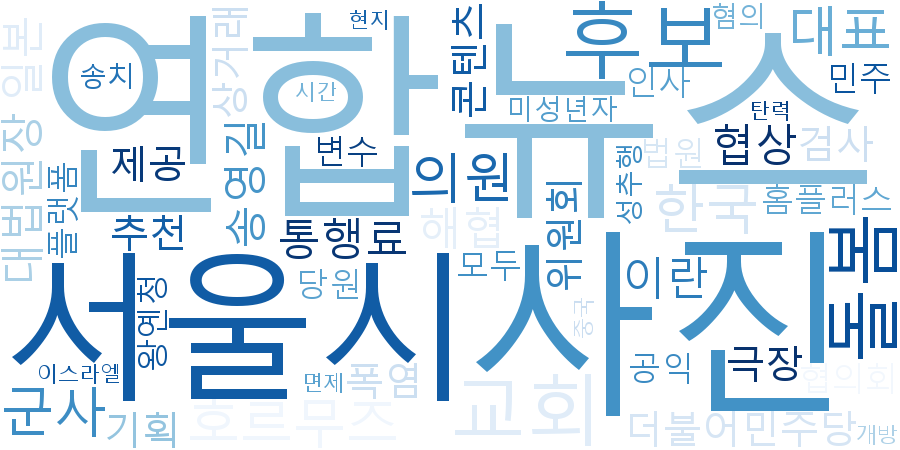
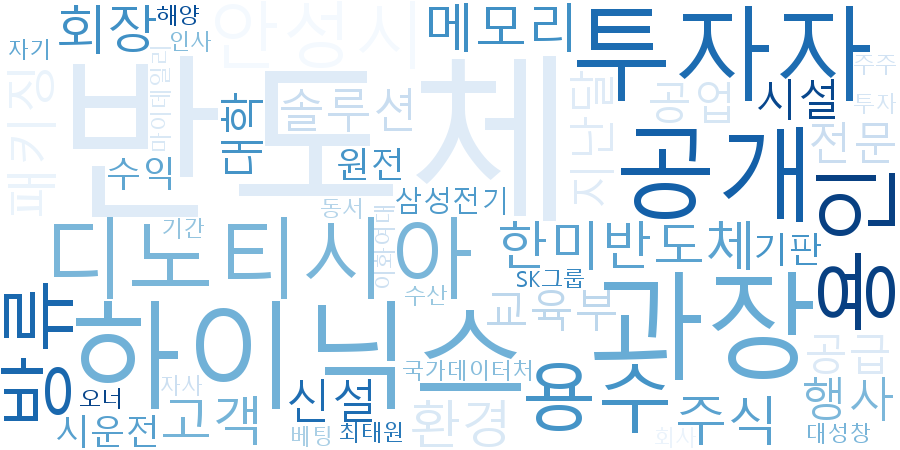
뉴스 관계도 시각화 기능 추가
기능 구현
- 뉴스 관계도(Network Graph) 시각화 기능 추가
- 검색 키워드를 중심으로 관계도 생성
- 핵심 키워드 간 연결 관계 시각화
- 불용어 처리 및 키워드 품질 개선
- 메인 화면에 관계도 출력

diff --git a/templates/index.html b/templates/index.html
@@ -100,6 +100,22 @@
         </section>
         {% endif %}
 
+        {% if keyword_graph %}
+        <section class="visualization-box">
+            <h2>🕸 뉴스 관계도</h2>
+
+            <p>
+                같은 기사에서 함께 등장한 핵심 키워드의 연결 관계입니다.
+            </p>
+
+            <img
+                src="{{ url_for('static', filename=keyword_graph) }}"
+                alt="뉴스 관계도"
+                class="keyword-graph-image"
+            >
+        </section>
+        {% endif %}
+
         <h2>
             {% if query %}
                 '{{ query }}' 검색 결과

diff --git a/static/style.css b/static/style.css
@@ -668,3 +668,10 @@ footer a:hover {
     width: 100%;
     border-radius: 12px;
 }
+
+.keyword-graph-image {
+    display: block;
+    width: 100%;
+    height: auto;
+    border-radius: 16px;
+}

diff --git a/app.py b/app.py
@@ -19,6 +19,13 @@ import os
 import re
 import sqlite3
 import requests
+import networkx as nx
+import matplotlib
+
+matplotlib.use("Agg")
+
+import matplotlib.pyplot as plt
+from matplotlib import font_manager
 
 load_dotenv()
 
@@ -109,30 +116,64 @@ def fetch_naver_news(query, display=10, sort="date"):
         print(f"네이버 뉴스 API 응답 처리 오류: {error}")
         return []
 
-def extract_keywords(news_list):
-    text_parts = []
+def normalize_keyword(word):
+    normalized = str(word)
 
-    for news in news_list:
-        text_parts.append(news["title"])
-        text_parts.append(news["content"])
+    normalized = re.sub(
+        r"[^가-힣a-zA-Z0-9]",
+        "",
+        normalized,
+    )
 
-    full_text = " ".join(text_parts)
+    return normalized
 
-    stopwords = {
+def get_stopwords():
+    """워드클라우드와 관계도에서 제외할 일반적인 단어 목록을 반환한다."""
+
+    return {
+                # 기본 불용어
         "기자", "뉴스", "오늘", "관련", "통해",
         "대한", "이번", "지난", "위해", "가운데",
         "따르면", "대해", "이날", "최대", "최근",
         "전국", "프로젝트", "명칭", "발표", "진행",
+
+        # 일반 명사
         "정부", "기업", "시장", "산업", "분야",
+        "경제", "지역", "사업", "교육", "지원",
+        "계획", "시스템", "센터", "데이터", "기술",
+        "국내", "업종", "자산", "운용", "참여",
+
+        # 기사에서 자주 등장하지만 의미가 약한 단어
+        "상승", "하락", "강세", "약세",
+        "증가", "감소", "확대", "축소",
+        "개최", "운영", "추진", "제공",
+        "설명", "예정", "발생", "가능",
+        "이용", "활용", "구축", "도입",
+        "관계자", "대표", "업계", "모든",
+        "모두", "이상", "이하", "경우",
+
+         # 실적 기사에서 자주 나오는 단어
+        "분기", "상반기", "하반기",
+        "전년", "대비", "이익",
+        "영업", "실적",
+
+        # 지역/기관명(관계도 품질 향상용)
+        "서울", "경기", "인천", "부산",
+        "대구", "광주", "대전", "울산",
     }
 
+
+def extract_keywords_from_text(text):
+    """한 문장에서 명사형 핵심 키워드만 추출한다."""
+
+    stopwords = get_stopwords()
     keywords = []
 
-    for token in kiwi.tokenize(full_text):
+    for token in kiwi.tokenize(text or ""):
         if not token.tag.startswith("N"):
             continue
 
-        word = token.form.strip()
+        word = normalize_keyword(token.form)
 
         if len(word) < 2:
             continue
@@ -145,7 +186,240 @@ def extract_keywords(news_list):
 
         keywords.append(word)
 
-    return Counter(keywords)
+    return keywords
+
+
+def extract_keywords(news_list):
+    """현재 뉴스 목록 전체의 키워드 등장 횟수를 계산한다."""
+
+    text_parts = []
+
+    for news in news_list:
+        text_parts.append(news.get("title", ""))
+        text_parts.append(news.get("content", ""))
+
+    full_text = " ".join(text_parts)
+    return Counter(extract_keywords_from_text(full_text))
+
+def build_keyword_graph(news_list, max_keywords=10):
+    overall_counts = extract_keywords(news_list)
+
+    top_keywords = {
+        normalize_keyword(word)
+        for word, _ in overall_counts.most_common(max_keywords)
+    }
+
+    graph = nx.Graph()
+
+    for word in top_keywords:
+        graph.add_node(
+            word,
+            count=overall_counts[word],
+        )
+
+    for news in news_list:
+        article_text = (
+            news["title"] + " " + news["content"]
+        )
+
+        article_keywords = set()
+
+        for token in kiwi.tokenize(article_text):
+            if not token.tag.startswith("N"):
+                continue
+
+            word = normalize_keyword(token.form)
+
+            if word in top_keywords:
+                article_keywords.add(word)
+
+        article_keywords = sorted(article_keywords)
+
+        for index, first_word in enumerate(article_keywords):
+            for second_word in article_keywords[index + 1:]:
+                if graph.has_edge(first_word, second_word):
+                    graph[first_word][second_word]["weight"] += 1
+                else:
+                    graph.add_edge(
+                        first_word,
+                        second_word,
+                        weight=1,
+                    )
+
+    return graph
+
+def generate_keyword_graph_image(news_list, focus_keyword=""):
+    graph = build_keyword_graph(
+        news_list,
+        max_keywords=10,
+    )
+
+    if graph.number_of_nodes() == 0:
+        return None
+
+    # 혹시 남아 있는 공백이나 특수문자를
+    # 이미지 생성 직전에 한 번 더 정리한다.
+    normalized_graph = nx.Graph()
+
+    for node, data in graph.nodes(data=True):
+        normalized_node = normalize_keyword(node)
+
+        if not normalized_node:
+            continue
+
+        current_count = normalized_graph.nodes.get(
+            normalized_node,
+            {},
+        ).get("count", 0)
+
+        normalized_graph.add_node(
+            normalized_node,
+            count=max(
+                current_count,
+                data.get("count", 1),
+            ),
+        )
+
+    for first_word, second_word, data in graph.edges(data=True):
+        normalized_first = normalize_keyword(first_word)
+        normalized_second = normalize_keyword(second_word)
+
+        if (
+            not normalized_first
+            or not normalized_second
+            or normalized_first == normalized_second
+        ):
+            continue
+
+        edge_weight = data.get("weight", 1)
+
+        if normalized_graph.has_edge(
+            normalized_first,
+            normalized_second,
+        ):
+            normalized_graph[
+                normalized_first
+            ][
+                normalized_second
+            ]["weight"] += edge_weight
+        else:
+            normalized_graph.add_edge(
+                normalized_first,
+                normalized_second,
+                weight=edge_weight,
+            )
+
+    if normalized_graph.number_of_nodes() == 0:
+        return None
+
+    output_filename = "keyword_graph.png"
+
+    output_path = os.path.join(
+        "static",
+        output_filename,
+    )
+
+    font_path = "C:/Windows/Fonts/malgun.ttf"
+
+    font_manager.fontManager.addfont(font_path)
+
+    font_name = font_manager.FontProperties(
+        fname=font_path,
+    ).get_name()
+
+    plt.figure(
+        figsize=(11, 7),
+    )
+
+    normalized_focus = normalize_keyword(focus_keyword)
+
+    if normalized_focus in normalized_graph:
+        positions = nx.spring_layout(
+            normalized_graph,
+            seed=42,
+            k=1.2,
+            pos={normalized_focus: (0, 0)},
+            fixed=[normalized_focus],
+        )
+    else:
+        positions = nx.spring_layout(
+            normalized_graph,
+            seed=42,
+            k=1.2,
+        )
+        
+    node_sizes = [
+        700
+        + normalized_graph.nodes[node].get(
+            "count",
+            1,
+        ) * 170
+        for node in normalized_graph.nodes
+    ]
+
+    edge_widths = [
+        0.8
+        + normalized_graph[first_word][second_word].get(
+            "weight",
+            1,
+        ) * 0.8
+        for first_word, second_word
+        in normalized_graph.edges
+    ]
+
+    node_colors = [
+        "#4fa8dc"
+        if node == normalized_focus
+        else "#a9d8ef"
+        for node in normalized_graph.nodes
+        ]
+
+    node_borders = [
+        2.8
+        if node == normalized_focus
+        else 1.4
+        for node in normalized_graph.nodes
+    ]
+
+    nx.draw_networkx_nodes(
+        normalized_graph,
+        positions,
+        node_size=node_sizes,
+        node_color=node_colors,
+        edgecolors="#438fbd",
+        linewidths=node_borders,
+        alpha=0.95,
+    )
+
+    nx.draw_networkx_edges(
+        normalized_graph,
+        positions,
+        width=edge_widths,
+        edge_color="#a8bfd3",
+        alpha=0.7,
+    )
+
+    nx.draw_networkx_labels(
+        normalized_graph,
+        positions,
+        font_family=font_name,
+        font_size=11,
+        font_color="#123b63",
+    )
+
+    plt.axis("off")
+    plt.tight_layout()
+
+    plt.savefig(
+        output_path,
+        dpi=150,
+        bbox_inches="tight",
+        facecolor="white",
+    )
+
+    plt.close()
+
+    return output_filename
 
 def generate_wordcloud(news_list):
     keyword_counts = extract_keywords(news_list)
@@ -444,6 +718,11 @@ def home():
 
     wordcloud_filename = generate_wordcloud(filtered_news)
 
+    keyword_graph = generate_keyword_graph_image(
+        filtered_news,
+        focus_keyword=api_query,
+    )
+
     connection = sqlite3.connect("news.db")
 
     popular_keywords = connection.execute(
@@ -464,6 +743,7 @@ def home():
         category=category,
         popular_keywords=popular_keywords,
         wordcloud_filename=wordcloud_filename,
+        keyword_graph=keyword_graph,
     )
 
 @app.route("/autocomplete")
